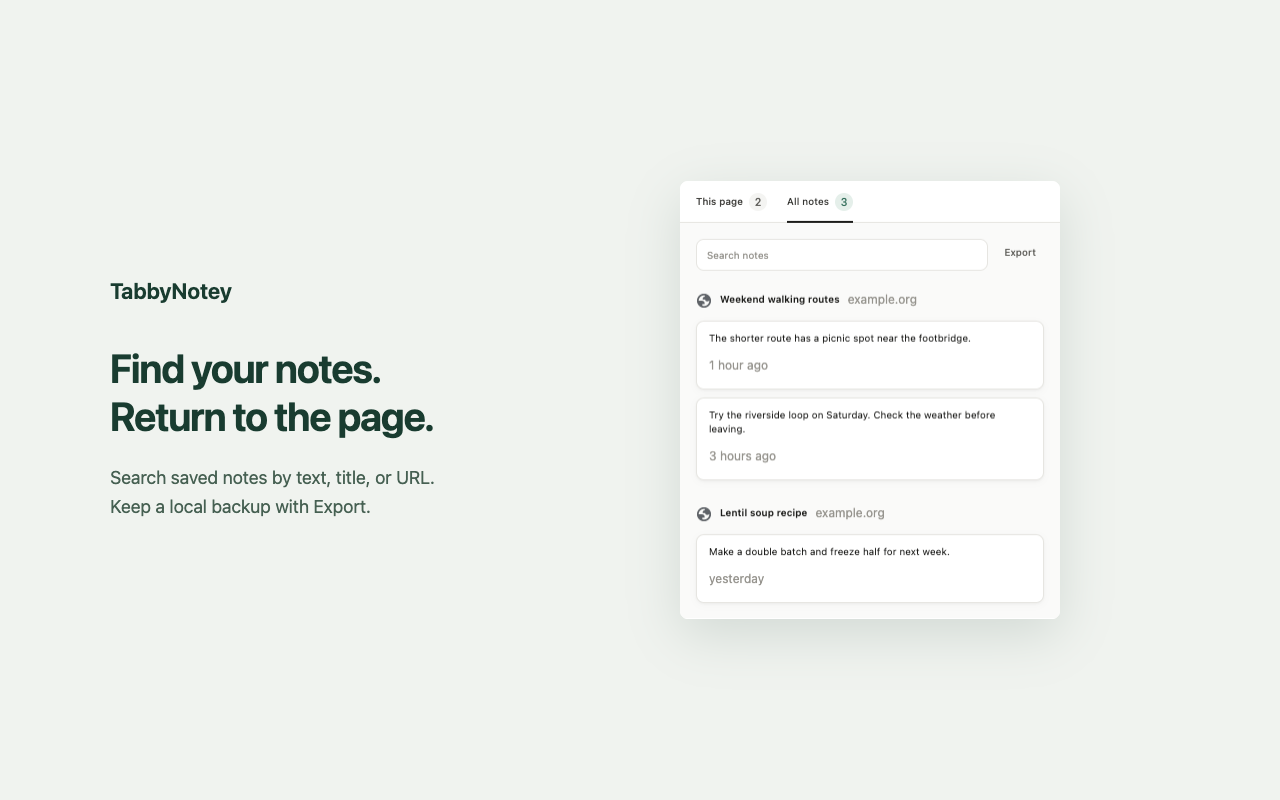
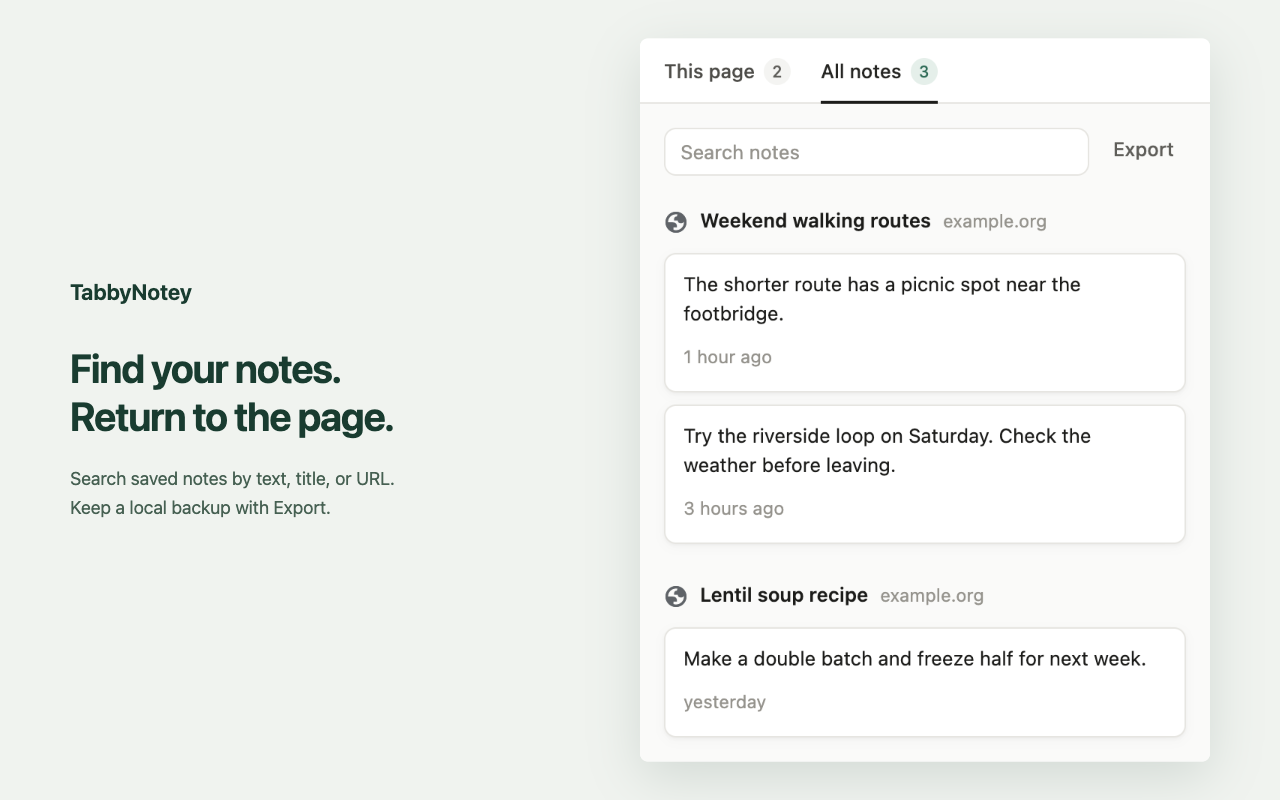
Improve store screenshot legibility and popup font inheritance
Capture installed popup pixels at 2x resolution and composite at 570px wide while retaining the 1280x800 layouts and copy.

diff --git a/extension/popup.css b/extension/popup.css
@@ -43,7 +43,7 @@
 }
 
 * { box-sizing: border-box; }
-body { width: 380px; margin: 0; }
+body { width: 380px; margin: 0; font: inherit; }
 button, input, textarea { font: inherit; color: inherit; }
 button { cursor: pointer; border: 0; background: none; padding: 0; }
 button:disabled { cursor: default; }
